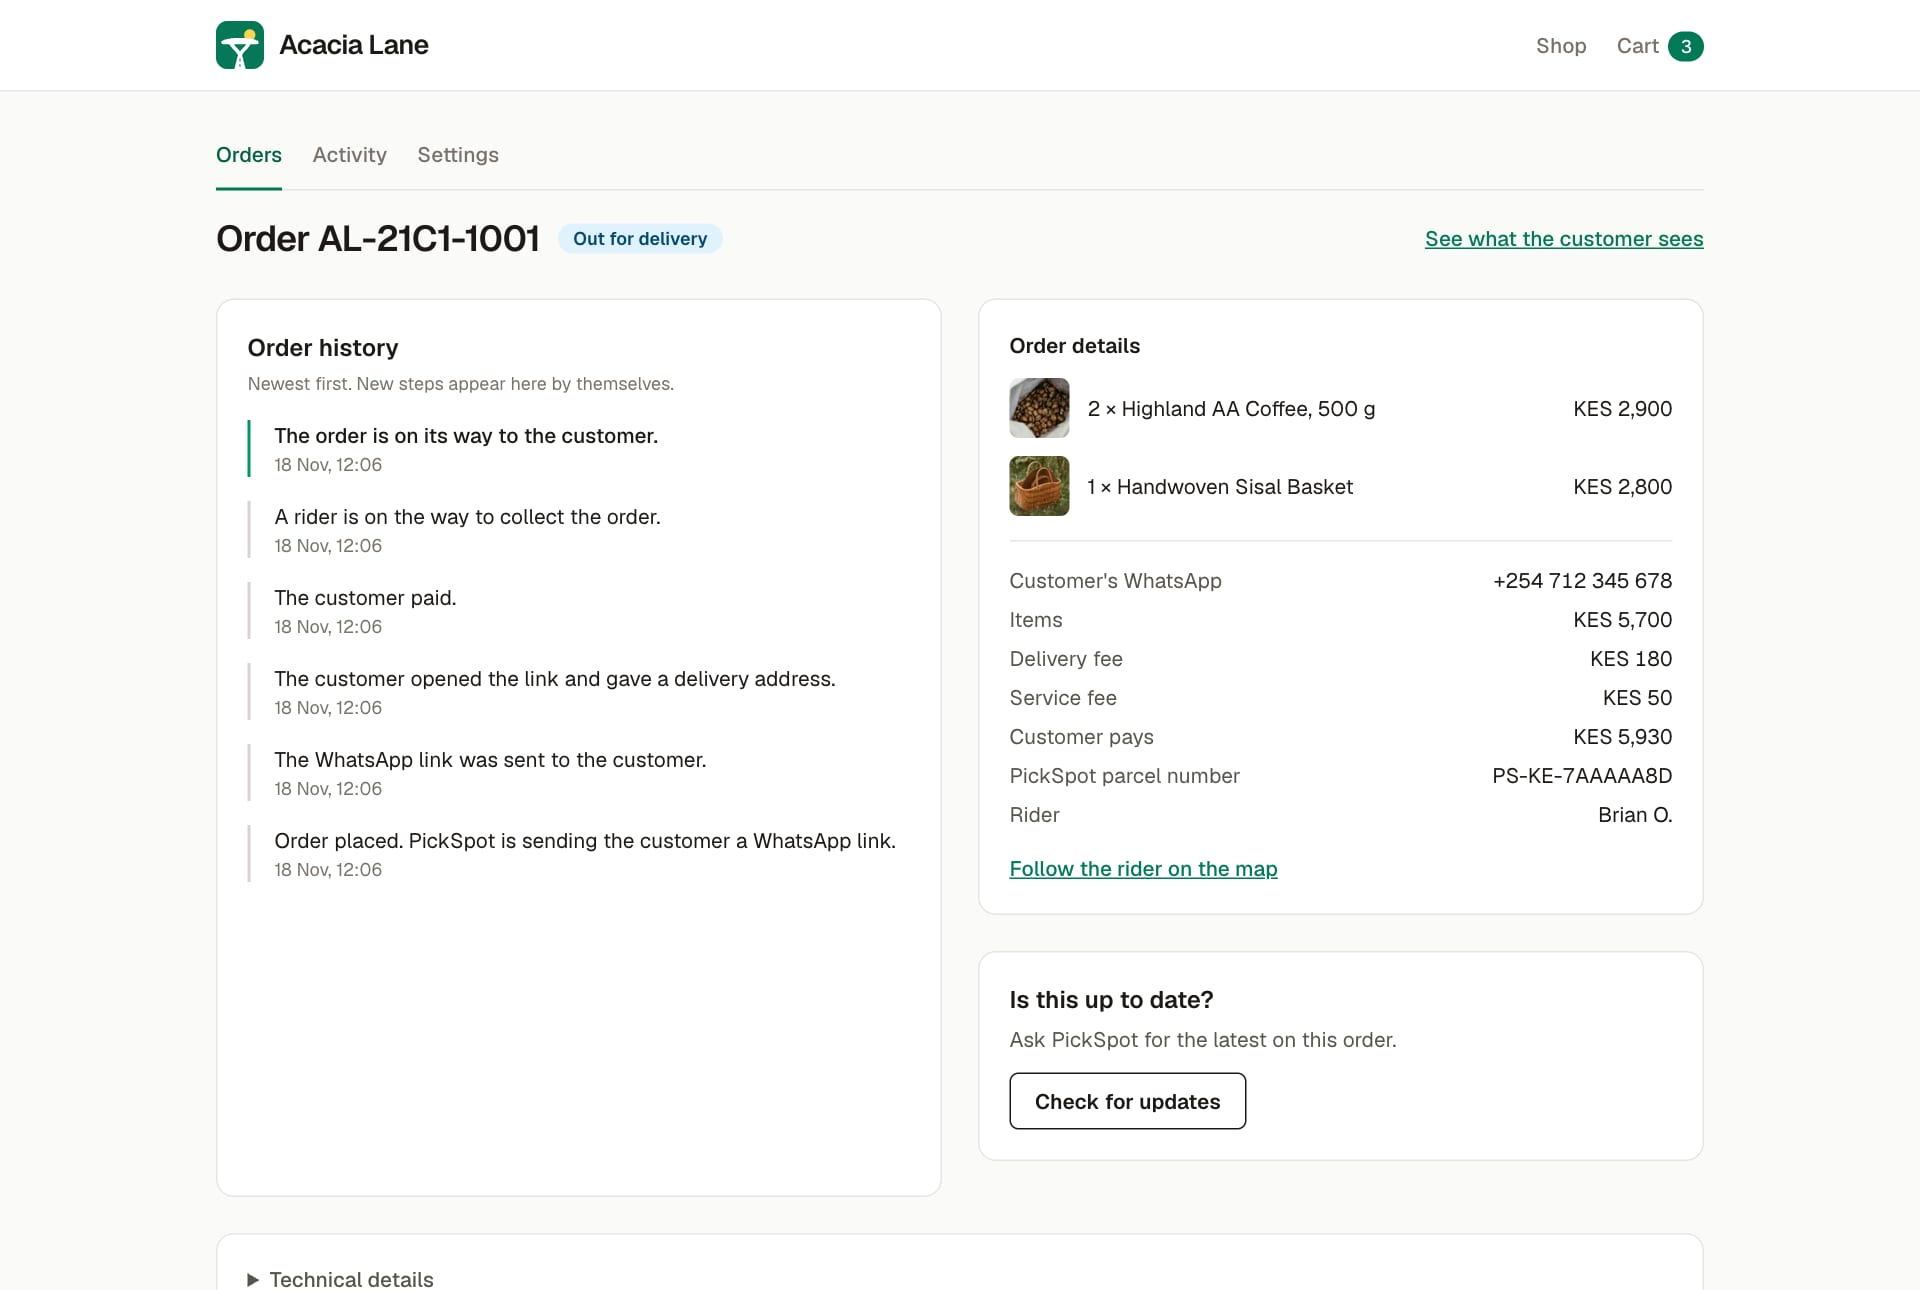
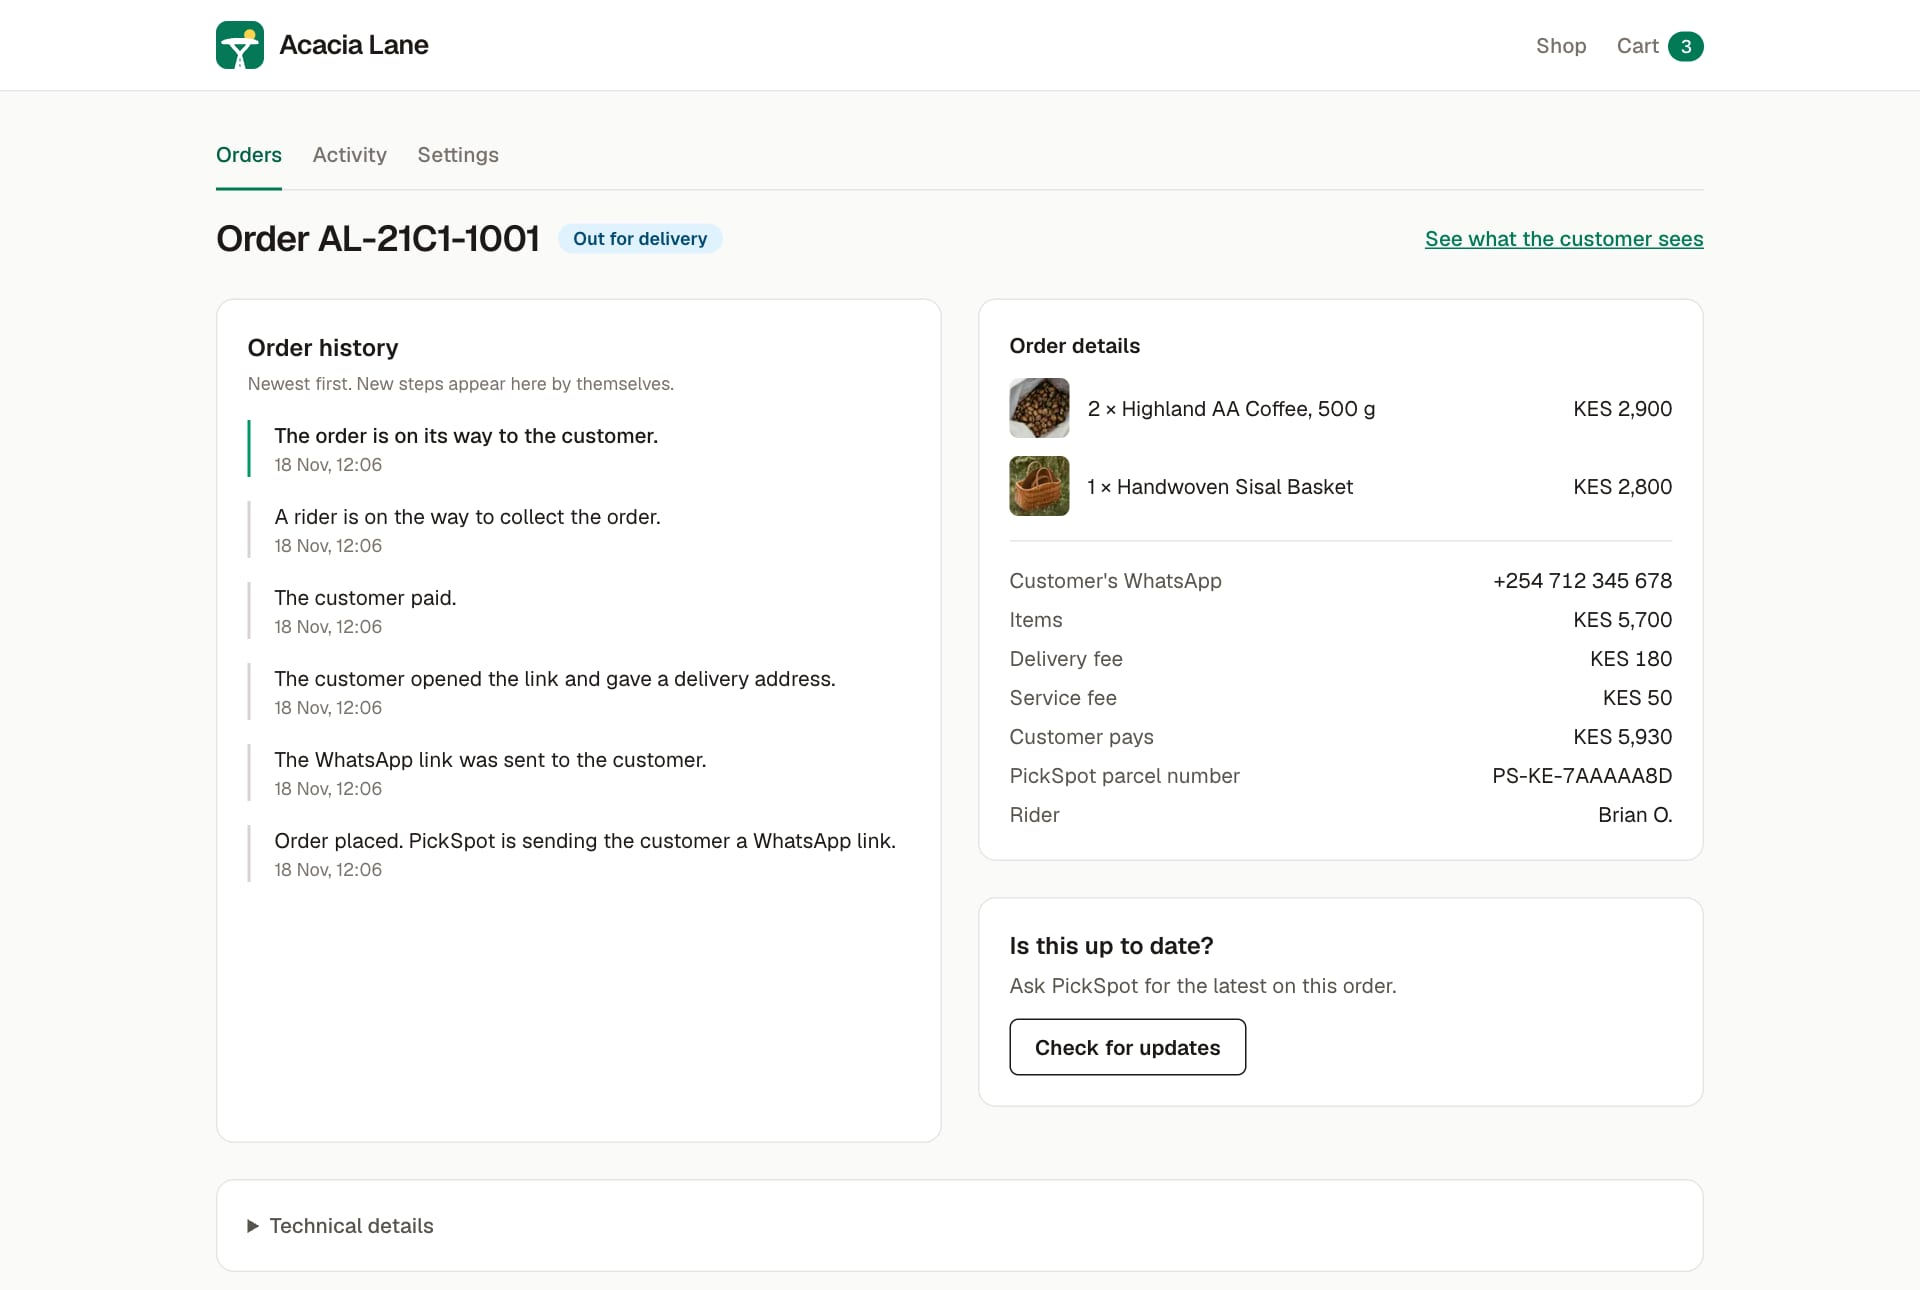
Owner's order page: remove the rider map link
"Follow the rider on the map" is no longer shown on the owner's order page,
as on the customer's. The rider's name stays in Order details. The README
screenshot of the page and the PickSpot guide are updated.

Closes #12

Changed region(s): [[0.5312, 0.7132, 0.7188, 0.8682], [0.125, 0.9302, 0.2188, 1.0], [0.5312, 0.6512, 0.6875, 0.6822]]

diff --git a/app/admin/orders/[reference]/page.tsx b/app/admin/orders/[reference]/page.tsx
@@ -140,16 +140,6 @@ export default async function AdminOrder({
                   </div>
                 ))}
             </dl>
-            {pickspot?.dispatch?.trackingUrl && (
-              <p className="mt-4">
-                <a
-                  href={pickspot.dispatch.trackingUrl}
-                  className="font-medium text-emerald-700 underline"
-                >
-                  Follow the rider on the map
-                </a>
-              </p>
-            )}
           </section>
 
           <section className="rounded-xl border border-stone-200 bg-white p-5">

diff --git a/docs/pickspot-integration.md b/docs/pickspot-integration.md
@@ -164,7 +164,6 @@ latest one on the order and uses these parts of it:
 | `claim.whatsapp` | Whether the WhatsApp message is on its way, sent, or could not be sent |
 | `parcelCode` | The PickSpot parcel number shown to the owner |
 | `dispatch.scheduledFor`, `dispatch.courier.name` | When the rider is due and who it is |
-| `dispatch.trackingUrl` | The "Follow the rider on the map" link on the owner's order page |
 | `kind`, `rawStatus`, `orderId`, `claimId` | Shown only under "Technical details" |
 
 An order starts as a claim (`kind: CLAIM`): PickSpot is waiting for the
